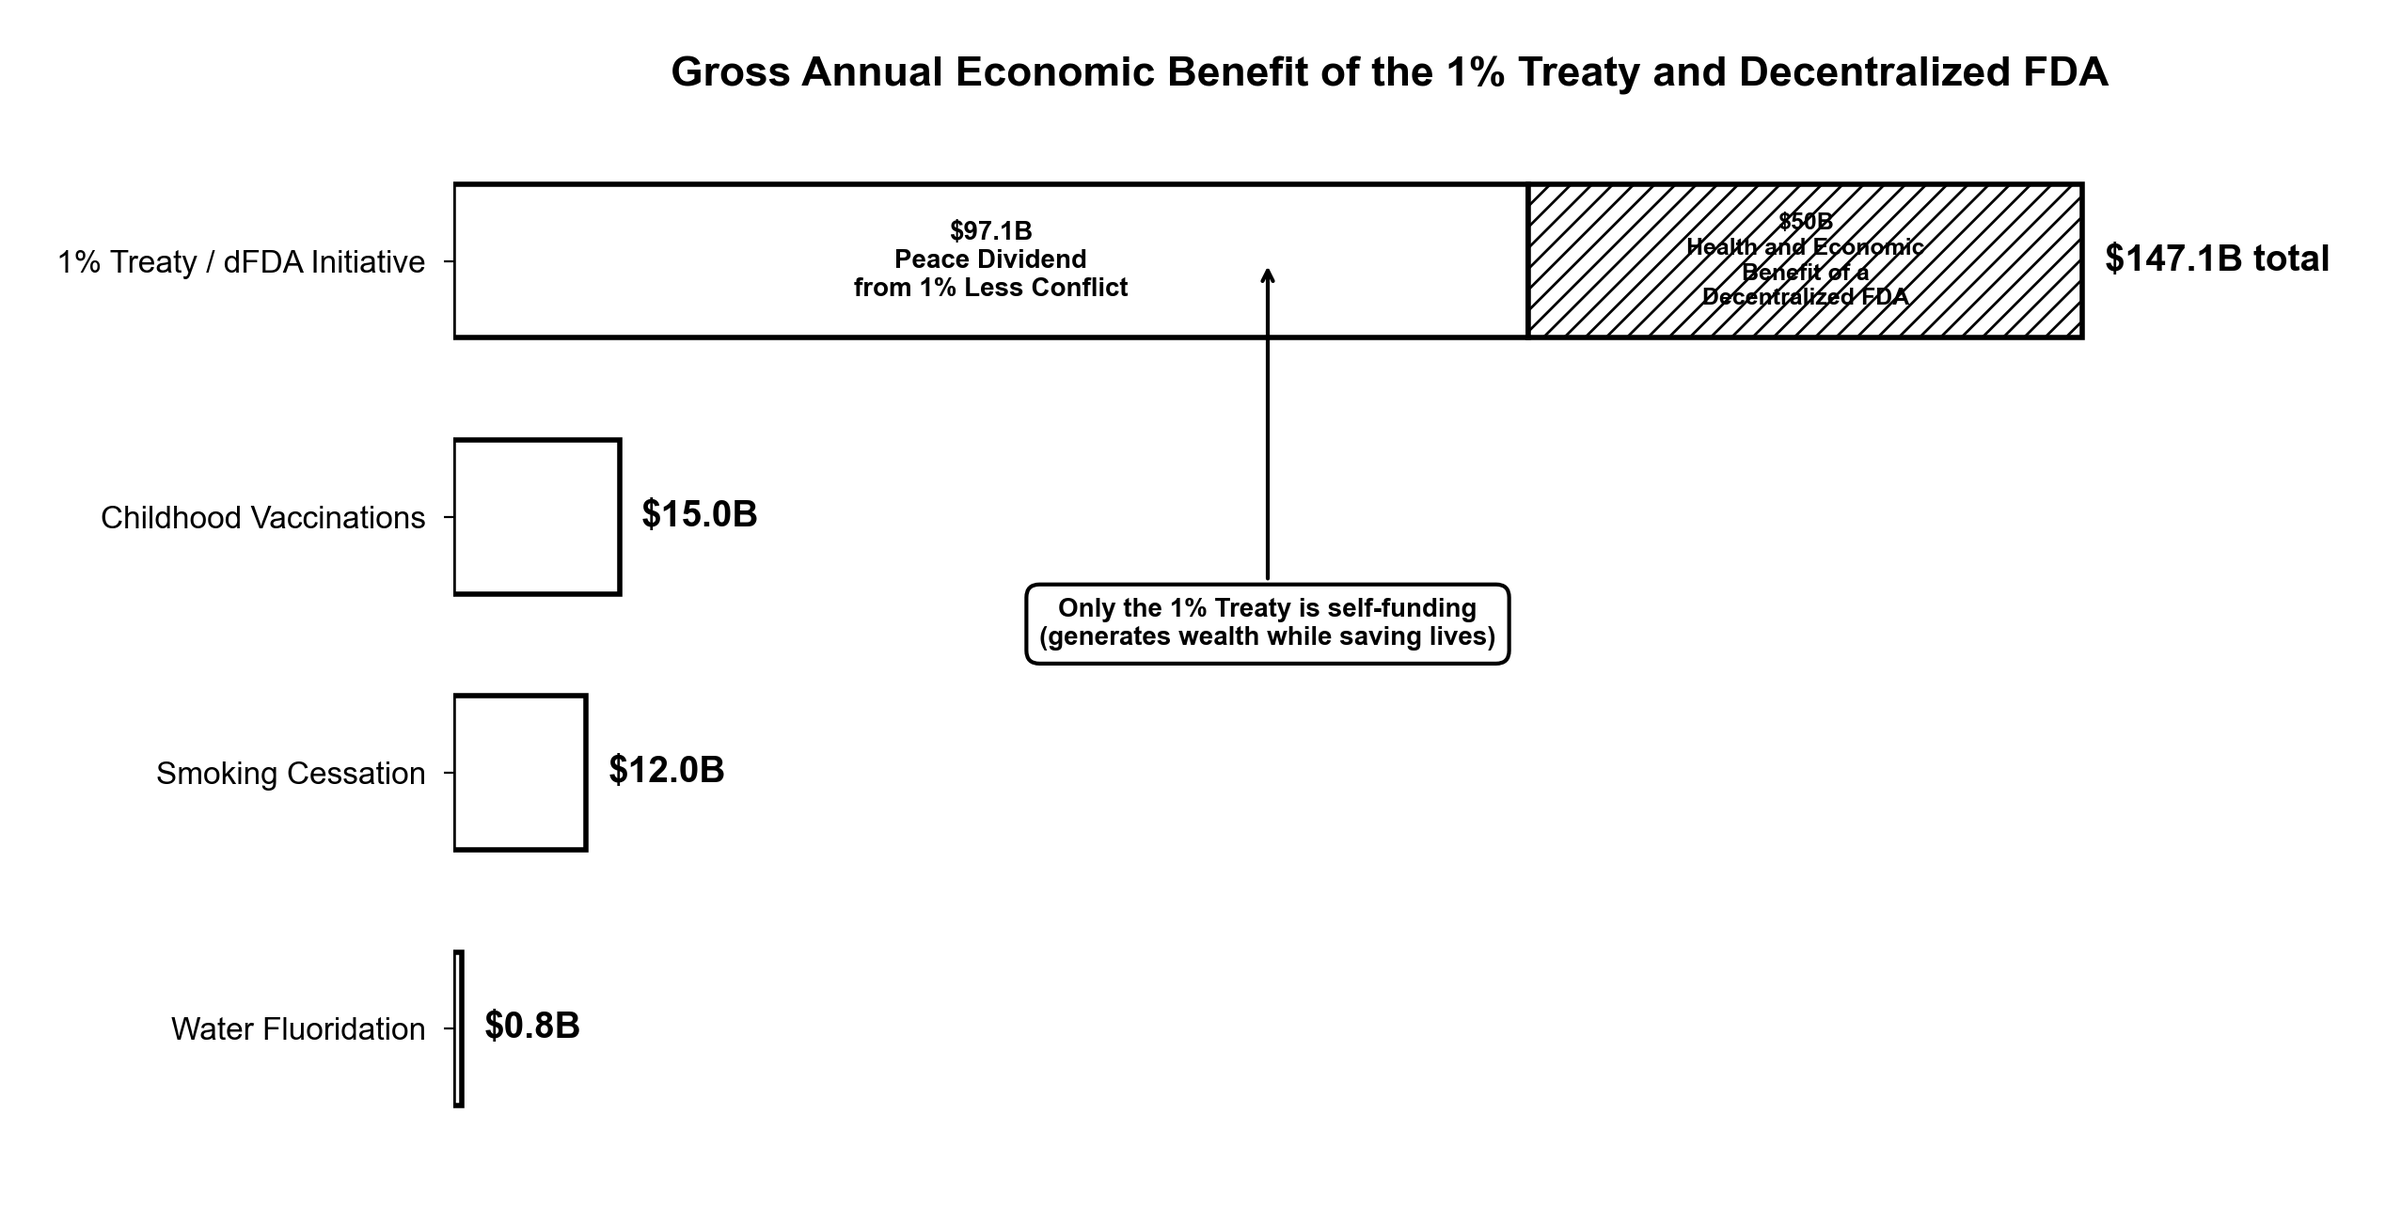
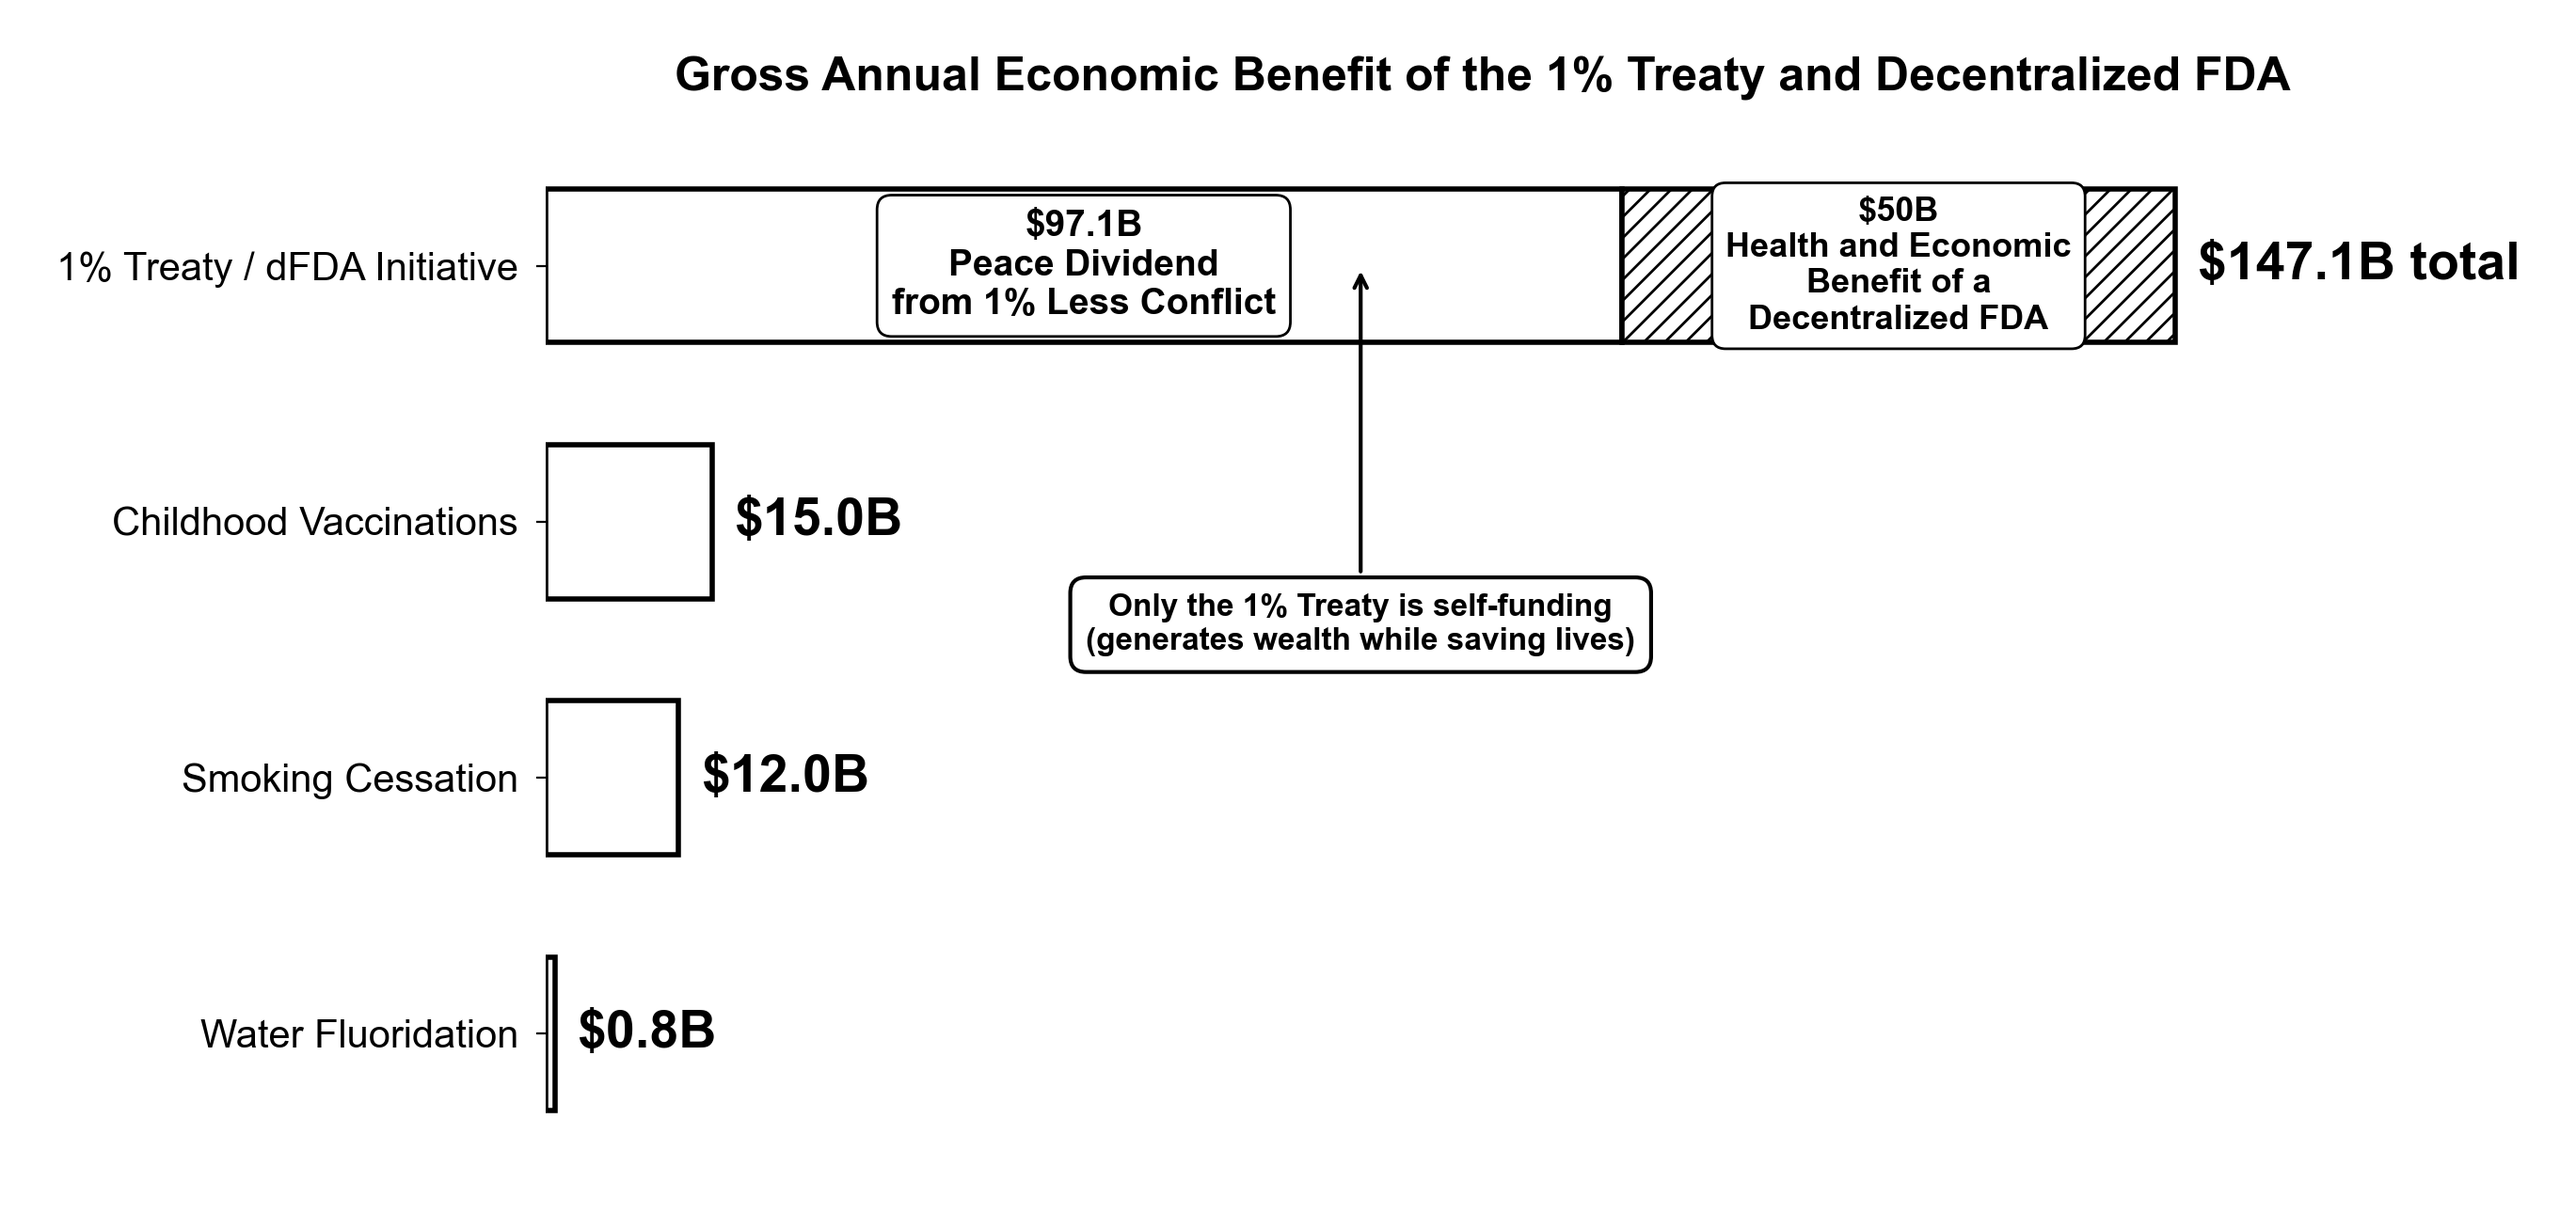
Enhance public health impact charts by updating label font sizes for improved readability and consistency. Added guidelines for using white background boxes for labels in the DESIGN_GUIDE.md to ensure clarity over patterned areas. Updated chart titles and annotations for better visual impact.

diff --git a/DESIGN_GUIDE.md b/DESIGN_GUIDE.md
@@ -202,6 +202,13 @@ These margins are automatically set by `setup_chart_style()` but can be adjusted
 - Remove y-axis entirely on column charts when all columns show their amounts
 - This eliminates matching numbers to separate axis labels
 
+**White Background Boxes for Labels:**
+- **Use white boxes ONLY for labels placed ON bars/columns** - Makes text readable over patterns
+- **Do NOT use boxes for labels positioned above/outside bars** - They're already on white background
+- Add boxes using: `bbox=dict(boxstyle='round,pad=0.4', facecolor=COLOR_WHITE, edgecolor=COLOR_BLACK, linewidth=1)`
+- Essential for text over hatched/patterned areas (e.g., labels on diagonal stripe patterns)
+- Keep padding minimal (0.4) to avoid visual clutter
+
 **Typography Size (Neobrutalist approach):**
 - **Make text as large as reasonably possible** - Bold, commanding, impossible to miss
 - Bar labels: 44-72pt (depending on available space)
